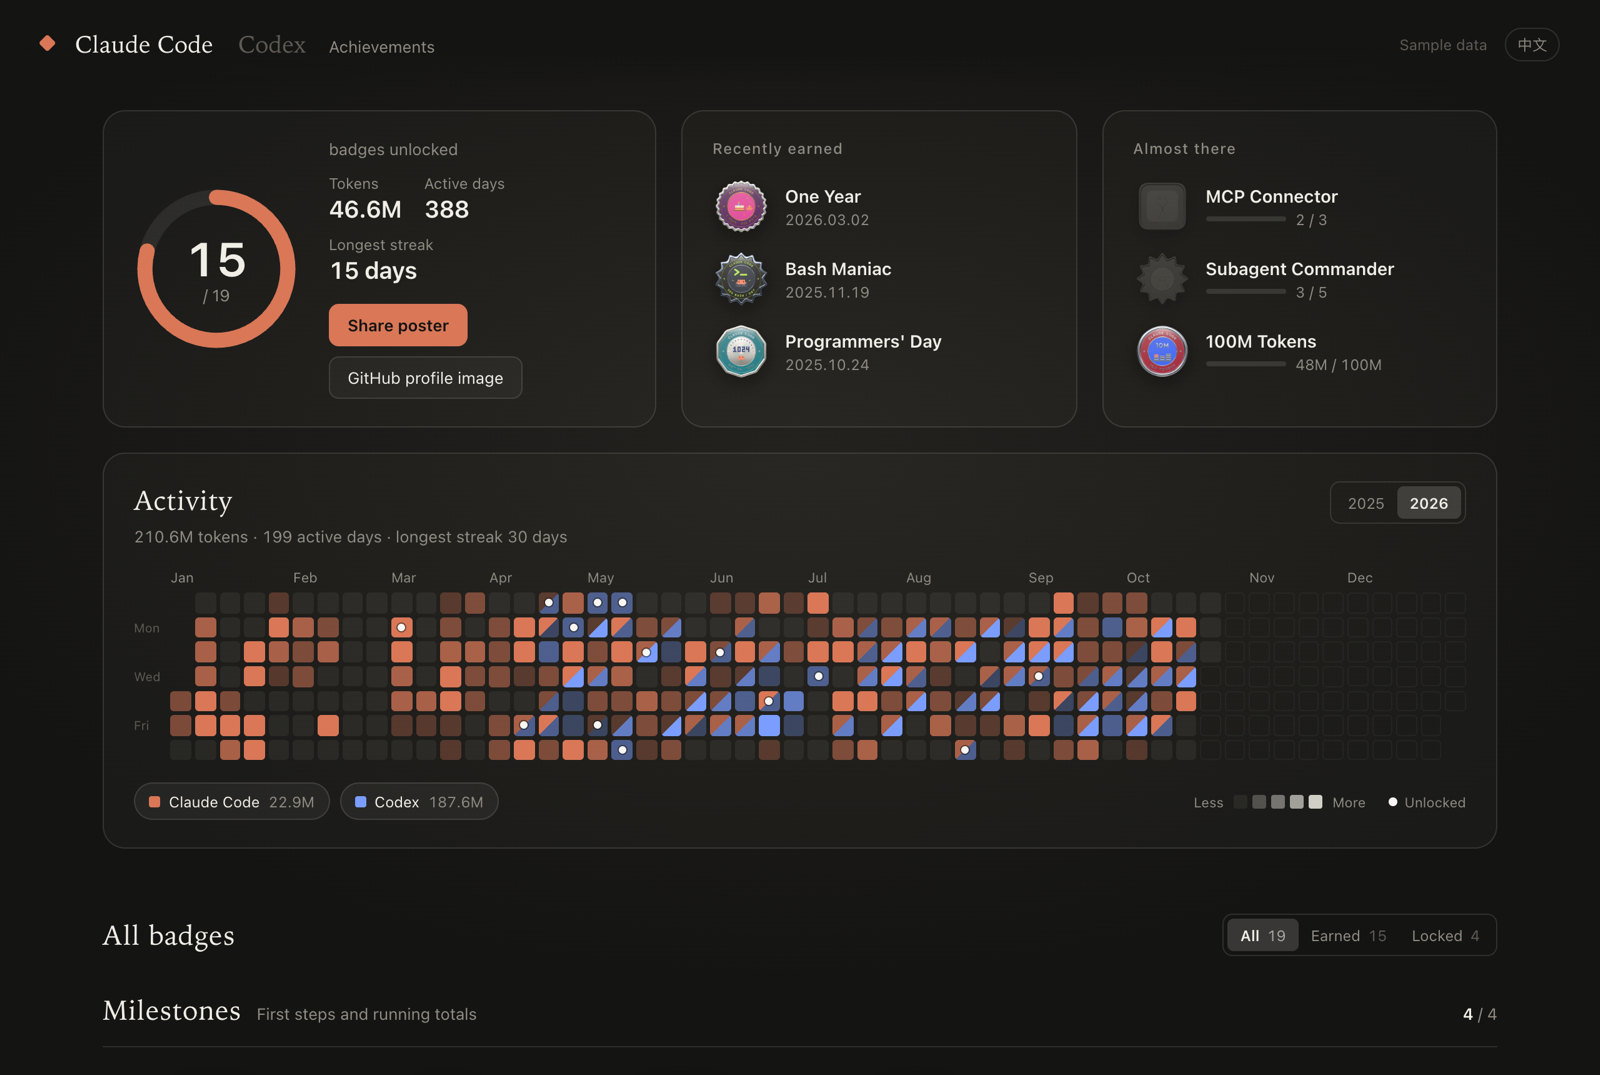
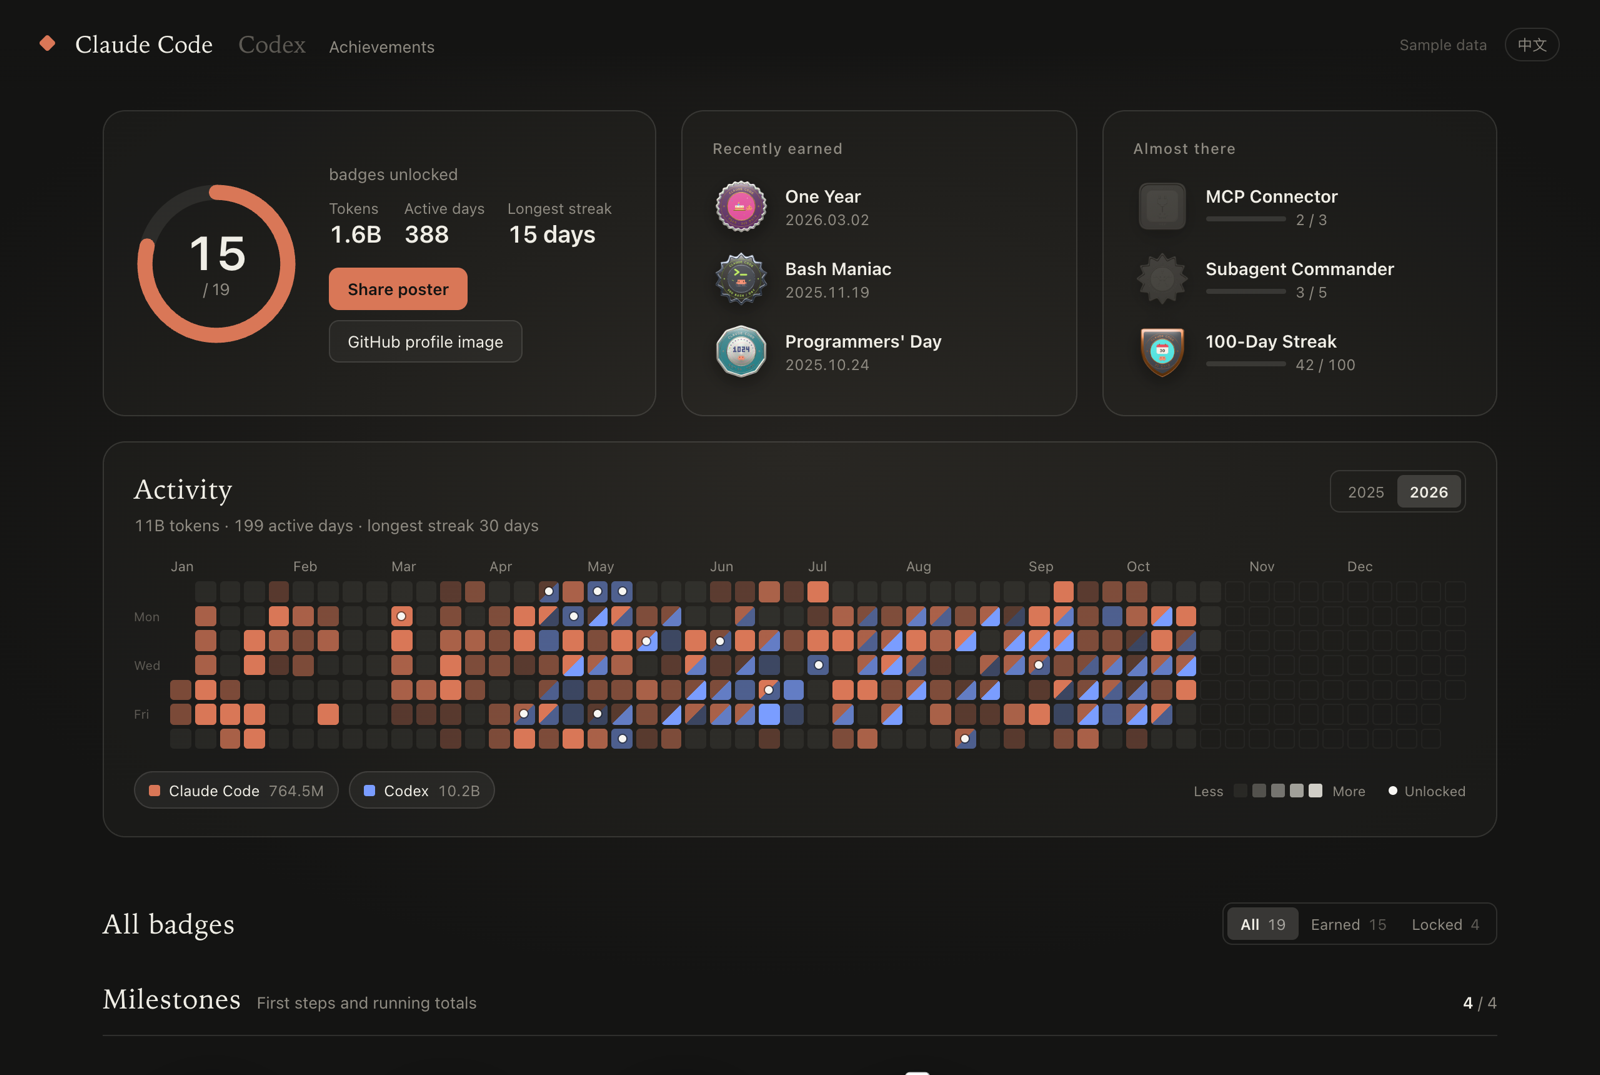
feat(tokens): five tiers up to 100B, three top-tier designs, richer metals
- Token tiers for the industry-standard count: 10M bronze, 100M silver,
  1B gold, 10B platinum, 100B one of three designs at random (Ivory Gold,
  Onyx Gold, Sapphire): a distinct silhouette plus ceramic or deep enamel,
  no textures, contents inset for breathing room.
- Codex token medallion keeps only the value and a smaller Codex mark.
- Metal colors closer to real metals (silver brighter, gold warmer,
  platinum a warm grey distinct from silver); polished metal glossier.
- Demo data and sample text scaled to the new definition; showcase renders
  stop at platinum so the top tier stays a surprise. Assets regenerated.

diff --git a/src/brands/codex/series/milestones.js b/src/brands/codex/series/milestones.js
@@ -1,7 +1,8 @@
 import { MEDALLION_H, around, codexMark, medallion, textRing } from '../helpers.js';
 import { CODEX_MARK } from '../icons.js';
+import { tokenTopVariants } from '../../shared/medal.js';
 
-// Codex 里程碑系列：起步与累计用量。分级徽章按 铜 → 银 → 金 → 白金 升级，
+// Codex 里程碑系列：起步与累计用量。分级徽章按 铜 → 银 → 金 → 白金 升级（Token 徽章还有顶级彩蛋），
 // 外圈和数字跟着等级换金属，中心圆盘每级换一种珐琅色（$accent）。
 
 const firstThread = {
@@ -72,28 +73,19 @@ const threads = {
 };
 
 // ---------------------------------------------------------------------------
-// Token 里程碑：圆角菱形（像一枚筹码）；Codex 云从 >_ 里吐出一串由大到小的方块 token，
-// 像一条往上飘的数据流。
+// Token 里程碑：圆角菱形（像一枚筹码）；中心圆盘只放数值和一个小的 Codex 图标，留足呼吸空间。
 
-/** 从云的右侧往右上方飘的 token 方块：[x, y, 边长]，金属与雪白交替。 */
-const STREAM = [
-  [0.1, -0.12, 0.12],
-  [0.235, -0.015, 0.1],
-  [0.33, 0.1, 0.08],
-  [0.385, 0.205, 0.062],
-];
-
-const tokens = {
+const tokensBase = {
   id: 'tokens',
   title: 'Token 里程碑',
   titleEn: '{label} TOKENS',
   description: '累计消耗的 Token。云里一直在下雨，下的全是字。',
   criteria: { metric: 'tokens.total' },
   tiers: [
-    { threshold: 1_000_000, metal: 'bronze', accent: 'amber', label: '1M' },
-    { threshold: 10_000_000, metal: 'silver', accent: 'sky', label: '10M' },
-    { threshold: 100_000_000, metal: 'gold', accent: 'aqua', label: '100M' },
-    { threshold: 1_000_000_000, metal: 'platinum', accent: 'magenta', label: '1B' },
+    { threshold: 10_000_000, metal: 'bronze', accent: 'amber', label: '10M' },
+    { threshold: 100_000_000, metal: 'silver', accent: 'sky', label: '100M' },
+    { threshold: 1_000_000_000, metal: 'gold', accent: 'aqua', label: '1B' },
+    { threshold: 10_000_000_000, metal: 'platinum', accent: 'magenta', label: '10B' },
   ],
   shape: { type: 'polygon', sides: 4, radius: 1.13, cornerRadius: 0.26, rotation: Math.PI / 2, depth: 0.22, bevel: 0.045 },
   layers: [
@@ -107,21 +99,17 @@ const tokens = {
     })),
     ...textRing({ top: 'CODEX', bottom: '{label} TOKENS', radius: 0.66, size: 0.085, metal: 'polished-metal', color: '$metal' }),
     ...medallion({ radius: 0.53, color: '$accent', metal: 'polished-metal', metalColor: '$metal' }),
-    { kind: 'text', text: '{label}', size: 0.16, center: [-0.09, 0.25], tracking: 0.06, material: 'polished-metal', color: '$metal', height: 0.055, z: MEDALLION_H },
-    ...codexMark({ size: 0.22, center: [-0.14, -0.17], height: 0.07 }),
-    ...STREAM.map(([x, y, s], i) => ({
-      kind: 'pixels',
-      rows: ['#'],
-      cell: s,
-      center: [x, y],
-      material: i % 2 ? 'enamel' : 'polished-metal',
-      color: i % 2 ? 'snow' : '$metal',
-      height: 0.045,
-      z: MEDALLION_H,
-      bevel: s * 0.18,
-    })),
+    // 圆盘里只放数字和一个小一些的 Codex 图标，上下居中，四周留白
+    { kind: 'text', text: '{label}', size: 0.16, center: [0, 0.15], tracking: 0.06, material: 'polished-metal', color: '$metal', height: 0.055, z: MEDALLION_H },
+    ...codexMark({ size: 0.14, center: [0, -0.16], height: 0.06 }),
   ],
   back: { material: 'brushed-metal', color: '$metal' },
+};
+
+// 顶级 100B：三款彩蛋随机解锁一款（白瓷金 / 黑瓷金 / 蓝宝石），由达到这一级的日期决定
+const tokens = {
+  ...tokensBase,
+  tiers: [...tokensBase.tiers, { threshold: 100_000_000_000, label: '100B', salt: 'codex/tokens', variants: tokenTopVariants(tokensBase) }],
 };
 
 // ---------------------------------------------------------------------------

diff --git a/src/site/strings.js b/src/site/strings.js
@@ -37,7 +37,7 @@ export default {
     'agent.title': '或者，直接问你的 Agent',
     'agent.sub': '给 Claude Code 或 Codex 装上 Agent Badges 技能，然后说「看看我的徽章」。Agent 会在你的电脑上运行命令行，告诉你新解锁了什么、离哪几枚最近。',
     'agent.chat.q': '看看我的徽章',
-    'agent.chat.a': '上次之后新解锁：<b>Bash 狂人</b>。<br />Claude Code：已解锁 15 / 19。<br />快解锁了：连接者 2 / 3 · 子代理指挥官 3 / 5 · Token 里程碑 48M / 100M。<br /><br /><span class="chat-offer">要我打开 3D 徽章墙，或者生成一张 GitHub 个人主页的成就卡片吗？</span>',
+    'agent.chat.a': '上次之后新解锁：<b>Bash 狂人</b>。<br />Claude Code：已解锁 15 / 19。<br />快解锁了：连接者 2 / 3 · 子代理指挥官 3 / 5 · Token 里程碑 4.8B / 10B。<br /><br /><span class="chat-offer">要我打开 3D 徽章墙，或者生成一张 GitHub 个人主页的成就卡片吗？</span>',
     'agent.claude.note': '装好后直接问，或者输入 <code>/agent-badges:badges</code>。技能只预先放行只读的命令，发布到主页这类操作会先问你。',
     'agent.codex.note': '装好后新开一个会话，直接问，或者输入 <code>$</code> 选择 <code>agent-badges:badges</code>。命令在 Codex 的沙箱里运行，它通常会请你批准。',
     'agent.more': '其他 Agent：技能是一个标准的 <a href="https://agentskills.io">Agent Skills</a> 目录 <a href="https://github.com/Aryous/agent-badges/tree/main/skills/badges"><code>skills/badges</code></a>，也可以直接调用 <code>npx agent-badges collect --json</code>。<a href="https://github.com/Aryous/agent-badges/blob/main/README.zh-CN.md#让-agent-帮你看">完整说明 →</a>',
@@ -81,7 +81,7 @@ export default {
     'agent.title': 'Or just ask your agent',
     'agent.sub': 'Install the Agent Badges skill in Claude Code or Codex, then say "check my badges". Your agent runs the CLI on your machine and tells you what you just unlocked and what you\'re closest to.',
     'agent.chat.q': 'check my badges',
-    'agent.chat.a': 'New since last time: <b>Bash Maniac</b>.<br />Claude Code: 15 / 19 unlocked.<br />Almost there: MCP Connector 2 / 3 · Subagent Commander 3 / 5 · 100M Tokens 48M / 100M.<br /><br /><span class="chat-offer">Want me to open the 3D badge wall, or make a card for your GitHub profile?</span>',
+    'agent.chat.a': 'New since last time: <b>Bash Maniac</b>.<br />Claude Code: 15 / 19 unlocked.<br />Almost there: MCP Connector 2 / 3 · Subagent Commander 3 / 5 · 10B Tokens 4.8B / 10B.<br /><br /><span class="chat-offer">Want me to open the 3D badge wall, or make a card for your GitHub profile?</span>',
     'agent.claude.note': 'Then just ask, or run <code>/agent-badges:badges</code>. The skill pre-approves only read-only commands; publishing to your profile asks first.',
     'agent.codex.note': 'Start a new session, then ask, or type <code>$</code> and pick <code>agent-badges:badges</code>. Commands run in Codex\'s sandbox, so it usually asks you to approve.',
     'agent.more': 'Other agents: the skill is a standard <a href="https://agentskills.io">Agent Skills</a> folder, <a href="https://github.com/Aryous/agent-badges/tree/main/skills/badges"><code>skills/badges</code></a>, or call <code>npx agent-badges collect --json</code> directly. <a href="https://github.com/Aryous/agent-badges#ask-your-agent">Full guide →</a>',

diff --git a/src/brands/shared/medal.js b/src/brands/shared/medal.js
@@ -34,3 +34,63 @@ export function medallion({ radius, color, metal, metalColor, pattern = 'sunburs
     { kind: 'ring', radius: radius + 0.006, width: 0.03, material: metal, color: metalColor, height: 0.034 },
   ];
 }
+
+/** 把一个浮雕的平面尺寸缩放 k 倍（高度不变）。 */
+export function scaleRelief(item, k) {
+  const out = { ...item };
+  for (const key of ['center', 'from', 'to']) if (out[key]) out[key] = out[key].map((v) => v * k);
+  for (const key of ['cell', 'width', 'radius', 'size', 'scale', 'half']) if (typeof out[key] === 'number') out[key] *= k;
+  return out;
+}
+
+// ---------------------------------------------------------------------------
+// Token 徽章的顶级（100B）：三款彩蛋，随机解锁一款（由达到这一级的日期决定，见 data/normalize.js）。
+// 延续 Apple Watch 运动徽章的克制：不镶钻、不堆装饰，靠异形外轮廓 + 特殊材质区分。
+// 顶级更安静：底面和圆盘不加纹理，里面的内容整体内缩，给花边 / 星芒的凹口留出呼吸空间。
+
+const TOKEN_TOP = [
+  {
+    id: 'ivory-gold',
+    name: { zh: '白瓷金', en: 'Ivory Gold' },
+    metal: 'gold',
+    accent: 'navy',
+    shape: { type: 'starburst', points: 24, radius: 1.05, innerRadius: 0.985, tipRoundness: 0.05, valleyRoundness: 0.03, depth: 0.26, bevel: 0.05 },
+    face: { material: 'ceramic', color: 'ivory' },
+    inner: 0.93,
+  },
+  {
+    id: 'onyx-gold',
+    name: { zh: '黑瓷金', en: 'Onyx Gold' },
+    metal: 'gold',
+    accent: 'forest',
+    shape: { type: 'polygon', sides: 8, radius: 1.06, cornerRadius: 0.12, rotation: Math.PI / 8, depth: 0.26, bevel: 0.05 },
+    // 亮面的蓝黑（不用纯黑：纯黑金属像锅底）
+    face: { material: 'enamel', color: 'onyx' },
+    inner: 0.94,
+  },
+  {
+    id: 'sapphire',
+    name: { zh: '蓝宝石', en: 'Sapphire' },
+    metal: 'silver',
+    accent: 'cobalt',
+    shape: { type: 'starburst', points: 16, radius: 1.08, innerRadius: 0.95, tipRoundness: 0.09, valleyRoundness: 0.05, depth: 0.26, bevel: 0.05 },
+    face: { material: 'enamel', color: 'midnight' },
+    inner: 0.9,
+  },
+];
+
+const withoutPattern = ({ pattern: _p, ...rest }) => rest;
+
+/**
+ * 由 Token 徽章本身的造型生成顶级的三款：换外形和底面材质，去掉纹理和方形外框才需要的四角铆钉，内容内缩。
+ * @param {object} base  不含顶级的 Token 徽章配置
+ */
+export function tokenTopVariants(base) {
+  return TOKEN_TOP.map(({ face, inner, ...v }) => ({
+    ...v,
+    layers: base.layers.map((l) => (l.kind === 'face' ? withoutPattern({ ...l, ...face }) : l)),
+    relief: base.relief
+      .filter((r) => !(r.kind === 'circle' && r.radius < 0.04 && r.color === '$metal'))
+      .map((r) => scaleRelief(r.kind === 'circle' && r.color === '$accent' ? withoutPattern(r) : r, inner)),
+  }));
+}

diff --git a/src/brands/claude-code/series/milestones.js b/src/brands/claude-code/series/milestones.js
@@ -1,4 +1,5 @@
 import { MEDALLION_H, clawd, medallion, textRing } from '../helpers.js';
+import { tokenTopVariants } from '../../shared/medal.js';
 
 // 里程碑系列：起步与累计用量。分级徽章按 铜 → 银 → 金 → 白金 升级，
 // 外圈和数字跟着等级换金属，中心圆盘每级换一种珐琅色（$accent），升级有惊喜感。
@@ -87,17 +88,17 @@ function coinStacks(heights) {
 /** 最矮那摞的顶面高度：小怪物坐在上面。 */
 const LOW_TOP = COIN_BASE + 2 * COIN_H + COIN_GAP;
 
-const tokens = {
+const tokensBase = {
   id: 'tokens',
   title: 'Token 里程碑',
   titleEn: '{label} TOKENS',
   description: '累计处理的 Token。一枚一枚攒起来，就成了一座小金山。',
   criteria: { metric: 'tokens.total' },
   tiers: [
-    { threshold: 1_000_000, metal: 'bronze', accent: 'amber', label: '1M' },
-    { threshold: 10_000_000, metal: 'silver', accent: 'sapphire', label: '10M' },
-    { threshold: 100_000_000, metal: 'gold', accent: 'aqua', label: '100M' },
-    { threshold: 1_000_000_000, metal: 'platinum', accent: 'amethyst', label: '1B' },
+    { threshold: 10_000_000, metal: 'bronze', accent: 'amber', label: '10M' },
+    { threshold: 100_000_000, metal: 'silver', accent: 'sapphire', label: '100M' },
+    { threshold: 1_000_000_000, metal: 'gold', accent: 'aqua', label: '1B' },
+    { threshold: 10_000_000_000, metal: 'platinum', accent: 'amethyst', label: '10B' },
   ],
   shape: { type: 'circle', radius: 1, depth: 0.26, bevel: 0.05, reeded: { count: 160, depth: 0.012 } },
   layers: [
@@ -114,6 +115,12 @@ const tokens = {
     ...clawd({ cell: 0.0125, center: [STACK_X[0], LOW_TOP + 0.0125 * 5 + 0.004], height: 0.045 }),
   ],
   back: { material: 'brushed-metal', color: '$metal' },
+};
+
+// 顶级 100B：三款彩蛋随机解锁一款（白瓷金 / 黑瓷金 / 蓝宝石），由达到这一级的日期决定
+const tokens = {
+  ...tokensBase,
+  tiers: [...tokensBase.tiers, { threshold: 100_000_000_000, label: '100B', salt: 'claude-code/tokens', variants: tokenTopVariants(tokensBase) }],
 };
 
 // ---------------------------------------------------------------------------

diff --git a/src/project/studio.js b/src/project/studio.js
@@ -11,6 +11,9 @@ import { renderBadgePNG } from '../viewer/export.js';
 import { LOGO_STATE, logoBadge, logoBrand } from './logo.js';
 
 const stage = createStage(document.querySelector('#stage'));
+
+/** 展示用的等级：最高一级；最高一级是随机款式的彩蛋时，展示它下面一级，留住惊喜。 */
+const showcaseTier = (tiers) => (tiers.at(-1).variants ? tiers.length - 2 : tiers.length - 1);
 const MOCKS = { 'claude-code': mockClaudeCode, codex: mockCodex };
 
 /**
@@ -39,7 +42,7 @@ async function render({ brand: brandId, id, angle = 0, tilt = 0, size = 1024, la
     if (showcase) {
       state = config.hidden
         ? { ...state, unlocked: false, earnedAt: null, tier: null }
-        : { ...state, unlocked: true, earnedAt: state.earnedAt ?? '2026-10-24', tier: config.tiers ? config.tiers.length - 1 : null };
+        : { ...state, unlocked: true, earnedAt: state.earnedAt ?? '2026-10-24', tier: config.tiers ? showcaseTier(config.tiers) : null };
     }
     if (unlocked !== undefined) state = { ...state, unlocked, earnedAt: state.earnedAt ?? '2026-05-02' };
     if (tier !== undefined) state = { ...state, unlocked: true, tier, earnedAt: state.earnedAt ?? '2026-05-02' };

diff --git a/src/data/progress.js b/src/data/progress.js
@@ -60,8 +60,8 @@ export async function loadProgress(brandId, badges, sources = SOURCES, options =
 // 示例数据的按天使用量：Claude Code 从 2025 年 3 月开始，Codex 从 2026 年 4 月开始，
 // 两者重叠的日子在热力图上显示双色。
 const MOCK_DAILY = {
-  'claude-code': { seed: 7, from: '2025-03-01', to: '2026-10-15', base: 60_000 },
-  codex: { seed: 11, from: '2026-04-10', to: '2026-10-15', base: 1_100_000, restRate: 0.45 },
+  'claude-code': { seed: 7, from: '2025-03-01', to: '2026-10-15', base: 2_000_000 },
+  codex: { seed: 11, from: '2026-04-10', to: '2026-10-15', base: 60_000_000, restRate: 0.45 },
 };
 
 /**

diff --git a/src/brands/claude-code/brand.js b/src/brands/claude-code/brand.js
@@ -18,12 +18,13 @@ export default {
     mint: '#2FB47F',
     violet: '#462584',
     lilac: '#8F6BE6',
-    gold: '#D9B061',
-    silver: '#C9CED6',
+    gold: '#F2C46B',
+    silver: '#EEF0F2',
     rose: '#E0A68F',
     // 分级金属
-    bronze: '#C0825A',
-    platinum: '#E4E7EC',
+    bronze: '#D58C5F',
+    platinum: '#CBC6BE',
+    onyx: '#1C2129', // 蓝黑亮面（Token 顶级「黑瓷金」）：不用纯黑，纯黑金属像锅底
     // 扩展色（新系列可用；深色做环带，亮色做圆盘或点缀）
     midnight: '#141F4D',
     navy: '#1E2F6E',

diff --git a/src/brands/codex/brand.js b/src/brands/codex/brand.js
@@ -23,12 +23,13 @@ export default {
     mint: '#2FB47F',
     violet: '#462584',
     lilac: '#8F6BE6',
-    gold: '#D9B061',
-    silver: '#C9CED6',
+    gold: '#F2C46B',
+    silver: '#EEF0F2',
     rose: '#E0A68F',
     // 分级金属
-    bronze: '#C0825A',
-    platinum: '#E4E7EC',
+    bronze: '#D58C5F',
+    platinum: '#CBC6BE',
+    onyx: '#1C2129', // 蓝黑亮面（Token 顶级「黑瓷金」）：不用纯黑，纯黑金属像锅底
     // 扩展色（新系列可用；深色做环带，亮色做圆盘或点缀）
     midnight: '#141F4D',
     navy: '#1E2F6E',

diff --git a/src/data/mock-claude-code.js b/src/data/mock-claude-code.js
@@ -7,7 +7,7 @@ export default async function mockClaudeCode() {
     // 里程碑
     'first-session': { unlocked: true, earnedAt: '2025-03-02', progress: { current: 1, target: 1 } },
     sessions: { value: 327, earnedAt: '2025-06-18' }, // 银（100），下一级 1000
-    tokens: { value: 48_000_000, earnedAt: '2025-08-02' }, // 银（1000 万），下一级 1 亿
+    tokens: { value: 1_200_000_000, earnedAt: '2025-08-02' }, // 金（10 亿），下一级 100 亿
     'tool-calls': { value: 12_400, earnedAt: '2025-09-11' }, // 银（1 万）
 
     // 连续与习惯

diff --git a/src/data/mock-codex.js b/src/data/mock-codex.js
@@ -6,7 +6,7 @@ export default async function mockCodex() {
     // 里程碑
     'first-thread': { unlocked: true, earnedAt: '2026-04-10', progress: { current: 1, target: 1 } },
     threads: { value: 420, earnedAt: '2026-06-02' }, // 银（100）
-    tokens: { value: 230_000_000, earnedAt: '2026-08-15' }, // 金（1 亿）
+    tokens: { value: 12_000_000_000, earnedAt: '2026-08-15' }, // 白金（100 亿），下一级是顶级彩蛋
     patches: { value: 64, earnedAt: '2026-05-01' }, // 铜（10）
 
     // 连续与习惯

diff --git a/src/data/daily.js b/src/data/daily.js
@@ -55,7 +55,8 @@ export function mockDaily({ seed = 1, from, to, base = 400_000, restRate = 0.18 
     // 长尾分布：大多数日子普通，少数日子很猛
     const burst = Math.exp(rand() * 2.4 - 0.6);
     const tokens = Math.round(base * burst * (weekend ? 0.6 : 1));
-    out[date] = [tokens, Math.max(1, Math.round(tokens / 18_000))];
+    // 轮数跟着 Token 走：普通的一天二十来轮
+    out[date] = [tokens, Math.max(1, Math.round((tokens / base) * 22))];
   }
   return out;
 }

diff --git a/src/engine/materials.js b/src/engine/materials.js
@@ -17,7 +17,7 @@ const PRESETS = {
   'polished-metal': (c) => ({
     color: c,
     metalness: 1,
-    roughness: 0.16,
+    roughness: 0.12,
     clearcoat: 0.3,
     clearcoatRoughness: 0.08,
   }),
